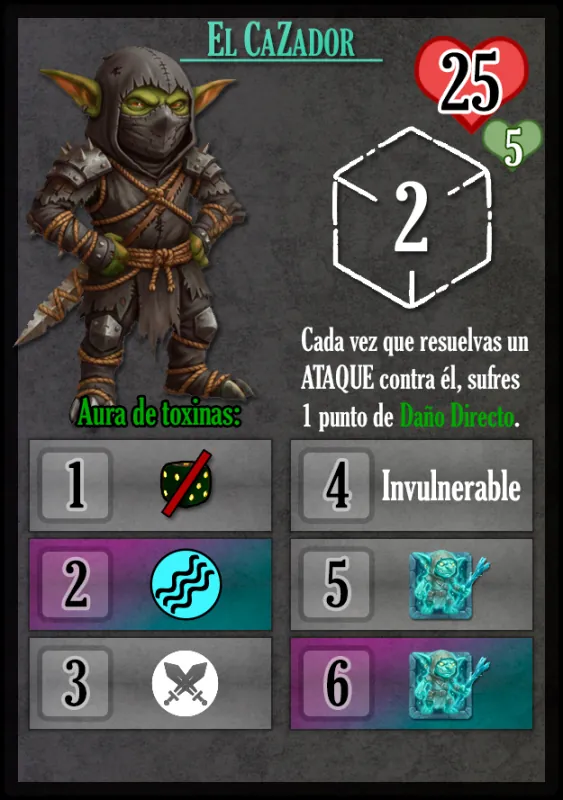
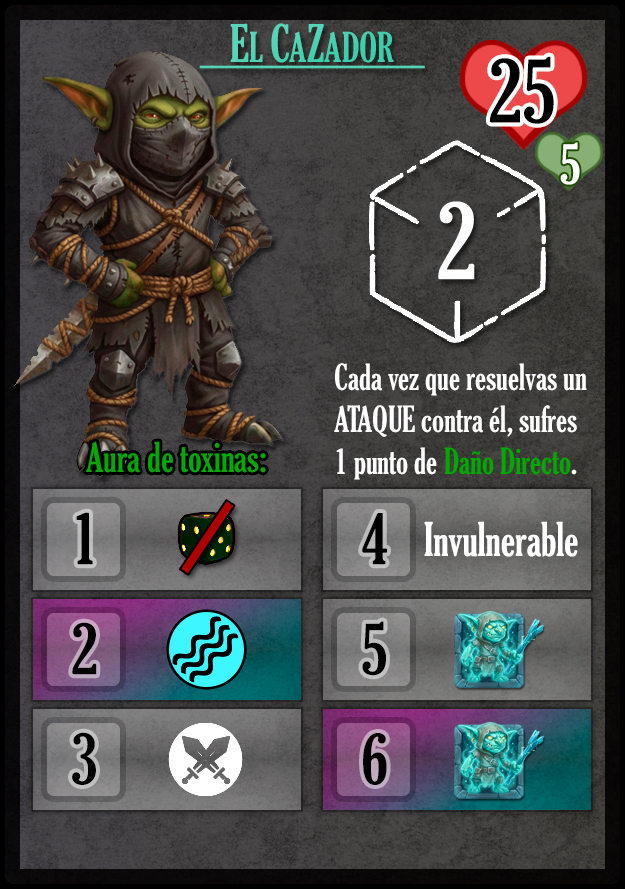
v3.20: Convertir imagenes de jefes JPG a WebP sin perdida (lossless) para calidad maxima

diff --git a/index.html b/index.html
@@ -5,7 +5,7 @@
     <meta charset="UTF-8">
     <meta name="viewport" content="width=device-width, initial-scale=1.0">
     <title>Malditos Goblins</title>
-    <link rel="stylesheet" href="css/style.css?v=3.19">
+    <link rel="stylesheet" href="css/style.css?v=3.20">
     <link href="https://fonts.googleapis.com/css2?family=Cinzel:wght@400;700&family=Inter:wght@300;400;600&display=swap"
         rel="stylesheet">
 </head>
@@ -252,7 +252,7 @@
 
                 <div id="game-version-badge"
                     style="position: absolute; top: 28px; left: 70px; z-index: 10; font-family: 'Cinzel', serif; font-size: 0.85rem; font-weight: bold; color: var(--gold); background: rgba(10, 10, 15, 0.8); padding: 4px 12px; border: 1px solid rgba(212, 175, 55, 0.4); border-radius: 20px; box-shadow: 0 2px 10px rgba(0,0,0,0.5); backdrop-filter: blur(5px); letter-spacing: 1px;">
-                    v.3.19
+                    v.3.20
                 </div>
 
                 <h2 class="setup-title" style="margin-top: 0; margin-bottom: 10px; font-size: 2.2rem; text-align: center;">Configura tu Grupo</h2>
@@ -795,13 +795,13 @@
         </div>
     </div>
 
-    <script src="js/database.js?v=3.19"></script>
-    <script src="js/GameState.js?v=3.19"></script>
-    <script src="js/UIManager.js?v=3.19"></script>
-    <script src="js/DragDropManager.js?v=3.19"></script>
-    <script src="js/CombatManager.js?v=3.19"></script>
-    <script src="js/BotManager.js?v=3.19"></script>
-    <script src="js/app.js?v=3.19"></script>
+    <script src="js/database.js?v=3.20"></script>
+    <script src="js/GameState.js?v=3.20"></script>
+    <script src="js/UIManager.js?v=3.20"></script>
+    <script src="js/DragDropManager.js?v=3.20"></script>
+    <script src="js/CombatManager.js?v=3.20"></script>
+    <script src="js/BotManager.js?v=3.20"></script>
+    <script src="js/app.js?v=3.20"></script>
     <!-- DEBUG COMBAT MODAL -->
     <div id="debug-combat-modal" class="hidden" style="position: fixed; top: 60px; right: 20px; width: 550px; max-height: 85vh; overflow: hidden; display: flex; flex-direction: column; text-align: left; border: 2px solid #ff3366; background: rgba(15, 10, 25, 0.95); box-shadow: 0 0 40px rgba(255, 51, 102, 0.4); border-radius: 15px; padding: 20px; z-index: 99999; backdrop-filter: blur(5px);">
         <div id="debug-combat-header" style="display: flex; justify-content: space-between; align-items: center; margin-bottom: 15px; cursor: grab; padding-bottom: 5px; border-bottom: 1px solid rgba(255, 51, 102, 0.3);">
